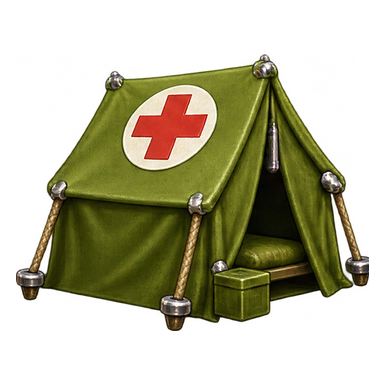
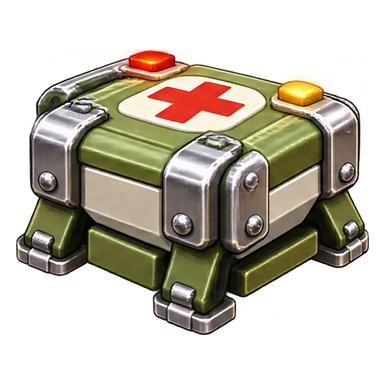
0.7.2: штаб нарисован передвижной командной машиной везде (категория, чертёж, верстак, ремонт, медблок, доска развития, станция)

diff --git a/tools/art/build_icon_kit.py b/tools/art/build_icon_kit.py
@@ -89,7 +89,7 @@ def main():
 	symbols = {
 		("symbols_1_v1.png", 5, 4): "burst bullet_burst bullets_fast crosshair bullet_shatter pierce flame flame_chain bolt dizzy bell heart_cage boot_dodge vest bomb tank_shell boot_wind hood clover_casing grenade_up",
 		("symbols_2_v1.png", 5, 4): "magazine_fast scope_star steering_bullet bullet_vs_rocket gyro hourglass_bullet torn_flag bolt_arc plug_spark medkit sandbags trajectory ghost_dash parachute door_dash loot_sack safe wrench_spark grapple grenade_clock",
-		("symbols_3_v1.png", 5, 4): "airstrike ally_drone barrier hood_fade comrade dynamite gas grenade laser mine riot_shield snowflake star turret jeep wheel_wrench bricks bunker_wrench alloy blueprint",
+		("symbols_3_v1.png", 5, 4): "airstrike ally_drone barrier hood_fade comrade dynamite gas grenade laser mine riot_shield snowflake star turret jeep wheel_wrench bricks - alloy blueprint",
 		("symbols_4_v1.png", 5, 4): "medbay plating robot_arm supply interceptor tesla pulse dome emp_dish armor_plate cannon ammo_belt documents recipe trophy stopwatch crossed_rifles invulnerable trench token",
 		("symbols_5_v1.png", 4, 3): "st_character st_command st_garage st_headquarters st_mechanic st_merchant st_range st_recycling st_roadmap st_wardrobe st_weapons st_yard",
 		("symbols_6_v1.png", 3, 3): "thermometer_flame torch helmet_stars flashbang mallet_stars battery_bolt bomb_suit shell_bounce crew_hatch",
@@ -99,16 +99,21 @@ def main():
 		("upgrades_b_v2.png", 5, 3): "flame thermometer_flame torch flame_chain bolt battery_bolt bolt_arc plug_spark dizzy helmet_stars flashbang mallet_stars heart_cage medkit bomb_suit",
 		("upgrades_c_v2.png", 5, 3): "vest shell_bounce sandbags boot_dodge boot_wind trajectory hood ghost_dash parachute door_dash clover_casing loot_sack safe grenade_clock grenade_up",
 		("hq_garage_v2.png", 4, 3): "medbay plating robot_arm supply interceptor tesla pulse dome emp_dish armor_plate cannon ammo_belt",
-		("bonus_resources_v2.png", 4, 3): "snowflake star turret jeep wheel_wrench bricks bunker_wrench blueprint documents recipe trophy padlock",
+		("bonus_resources_v2.png", 4, 3): "snowflake star turret jeep wheel_wrench bricks - blueprint documents recipe trophy padlock",
 		("stations_v2.png", 4, 3): "st_character st_command st_garage st_headquarters st_mechanic st_merchant st_range st_recycling st_roadmap st_wardrobe st_weapons st_yard",
 		("categories_v2.png", 3, 3): "cat_hero cat_ability cat_hq cat_bonus cat_weapon sender_story sender_institute sender_operations weapon_tune",
 		("ammo_v2.png", 4, 2): "ammo_standard ammo_burn ammo_stun ammo_shock ammo_explosive ammo_ap ammo_ricochet ammo_cryo",
 		("blueprints_v2.png", 3, 2): "bp_weapon bp_vehicle bp_hq bp_ability bp_bonus bp_building",
 		("ammo_charges_v2.png", 2, 1): "ammo_cluster ammo_napalm",
+		# HQ is the mobile command truck (author, 2 Oct): these replace the tent and bunker pictures.
+		("hq_vehicle_v2.png", 3, 2): "cat_hq st_headquarters hq_repair medbay - -",
+		("bp_hq_v2.png", 1, 1): "bp_hq",
 	}
 	for (sheet, cols, rows), names in symbols.items():
 		grid = cells(sheet, cols, rows)
 		for i, name in enumerate(names.split()):
+			if name == "-":
+				continue
 			if name in AUTHOR_KEPT and (OUT / f"symbols/{name}.png").exists():
 				continue
 			save(single(grid[(i // cols, i % cols)]), f"symbols/{name}.png")

diff --git a/guides/03_release/07_icon_kit_brief.md b/guides/03_release/07_icon_kit_brief.md
@@ -6,6 +6,7 @@
 
 Источник — разборы по геймдизайну ([Game Developer: Icon design rules](https://www.gamedeveloper.com/design/icon-design-rules-you-should-know)), опыт иконок способностей в мобильных играх и приёмки этого проекта.
 
+0. **Штаб — машина, база — ангар.** Штаб в игре — передвижная командная машина; рисовать её (или модуль на ней), а не бункер, палатку или здание. База — хаб-ангар.
 1. **Иконка — один нарисованный предмет без плашки и рамки.** Смысл читается по силуэту; цвет помогает, но иконка должна читаться и в оттенках серого.
 2. **Один смысл — один символ во всей игре.** «Сердце» — здоровье и в карточке забега, и в прокачке, и в бонусе. Разные карточки забега не делят символ (это проверяет тест).
 3. **Простые бытовые метафоры:** пламя — горение, молния — ЭМИ, спираль со звёздами — оглушение, факел — горит дольше, градусник — жарче. Не придумывать новое, если есть привычный знак.
@@ -87,9 +88,9 @@
 
 **Способности** : airstrike — самолёт сбрасывает бомбы; ally_drone — квадрокоптер; barrier — противотанковый ёж; cloak — капюшон с исчезающим краем; comrade — каска кота и плюс; dynamite — шашка с фитилём; gas — облачко с листом мяты; grenade — граната; laser — турель с лучом; mine — мина; shield — штурмовой щит с лапой.
 
-**Бонусы** : freeze — снежинка; heart — heart_cage; pressure — bullet_vs_rocket; repair — штаб с ключом; star — звезда; turret — турель; vehicle — силуэт машинки; vehicle_repair — ключ на колесе; wall — кирпичи.
+**Бонусы** : freeze — снежинка; heart — heart_cage; pressure — bullet_vs_rocket; repair — командная машина штаба с ключом; star — звезда; turret — турель; vehicle — силуэт машинки; vehicle_repair — ключ на колесе; wall — кирпичи.
 
-**Штаб** : hq_medbay — палатка с крестом; hq_plating — бронепанели; hq_regen — рука-манипулятор с ключом; hq_supply — ящик снабжения; hq_interceptor — ракета-перехватчик; hq_tesla — катушка с молниями; hq_patch — кольцевой импульс с крестом; hq_field — купол; hq_emp — тарелка с волнами.
+**Штаб — это наша передвижная командная машина** (бронированный грузовик 4×4 с тарелкой связи, её защищаем в бою), а не здание. База — хаб-ангар. Все картинки штаба показывают эту машину или её модули: hq_medbay — медицинский модуль с красным крестом на креплениях; hq_plating — бронепанели; hq_regen — рука-манипулятор с ключом; hq_supply — ящик снабжения; hq_interceptor — ракета-перехватчик; hq_tesla — катушка с молниями; hq_patch — кольцевой импульс с крестом; hq_field — купол; hq_emp — тарелка с волнами.
 
 **Гараж**: `armor` — бронеплита, `gun` — ствол со вспышкой, `loader` — патронная лента; у трёх машин одинаковые символы веток, машину показывает группа плиток на Стоянке.
 

diff --git a/guides/02_development/09_icon_catalog.md b/guides/02_development/09_icon_catalog.md
@@ -11,7 +11,7 @@
 | Файл | id | Название |
 |---|---|---|
 | bricks.png | pickups/wall | Укрепление |
-| bunker_wrench.png | pickups/repair | Ремонт базы |
+| hq_repair.png | pickups/repair | Ремонт базы |
 | jeep.png | pickups/vehicle, category/vehicle | Десант техники, Транспорт |
 | snowflake.png | pickups/freeze | Фриз |
 | star.png | pickups/star | Звезда |
